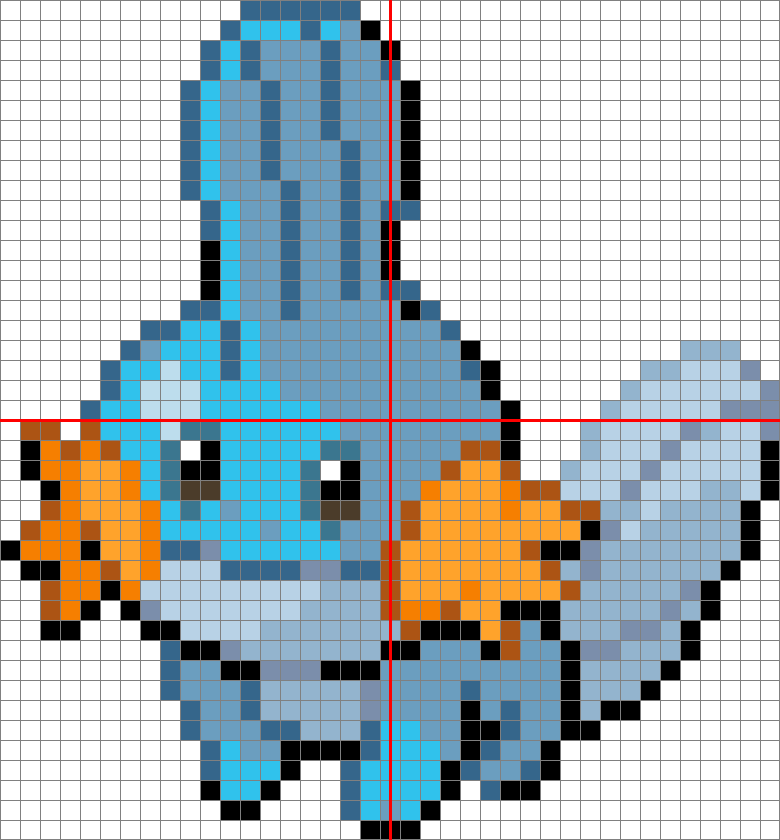
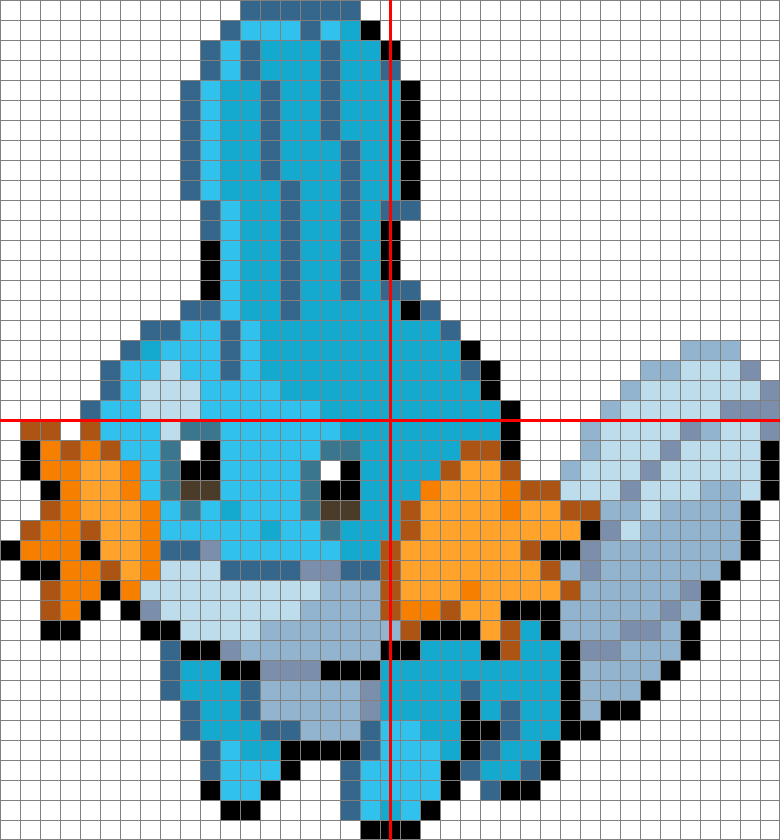
fixed colors & added side by side

diff --git a/utils.py b/utils.py
@@ -4,6 +4,7 @@ import polars as pl
 import pandas as pd
 from colormath.color_objects import sRGBColor, LabColor
 from colormath.color_conversions import convert_color
+from colorspacious import cspace_convert
 from collections import Counter
 import math
 
@@ -56,9 +57,16 @@ def rgb_to_lab(rgb):
     # return [lab.lab_l, lab.lab_a, lab.lab_b]
     # return convert_color(sRGBColor(rgb[0] / 255, rgb[1] / 255, rgb[2] / 255), LabColor)
 
-    # normalize to 0–1
-    srgb = sRGBColor(rgb[0] / 255, rgb[1] / 255, rgb[2] / 255)
-    lab = convert_color(srgb, LabColor)
+    # # normalize to 0–1
+    # srgb = sRGBColor(rgb[0] / 255, rgb[1] / 255, rgb[2] / 255)
+    # lab = convert_color(srgb, LabColor)
+
+    srgb = sRGBColor(rgb[0] / 255, rgb[1] / 255, rgb[2] / 255, is_upscaled=False)
+    lab = convert_color(
+        srgb,
+        LabColor,
+        target_illuminant="d65"
+    )
 
     # ensure pure Python floats
     lab.lab_l = float(lab.lab_l)
@@ -68,21 +76,21 @@ def rgb_to_lab(rgb):
 
 
 def closest_color(target, colors):
-    tgt = rgb_to_lab([target[0], target[1], target[2]])
+    # tgt = rgb_to_lab([target[0], target[1], target[2]])
 
     best_color = None
     best_distance = float("inf")
 
     for color in colors:
-        c = rgb_to_lab([color[0], color[1], color[2]])
-        d = gpt_delta_e_ciede2000(tgt, c)  # perceptual distance
+        # c = rgb_to_lab([color[0], color[1], color[2]])
+        d = cam02_ucs_distance(target, color)  # perceptual distance
 
         if d < best_distance:
             best_distance = d
             best_color = color
-            print(f"NEW BEST: {color} \t {d}")
-        else:
-            print("         ", color, "   \t", d)
+            # print(f"NEW BEST: {color} \t {d}")
+        # else:
+        #     print("         ", color, "   \t", d)
 
     return best_color
 
@@ -155,7 +163,11 @@ def gpt_delta_e_ciede2000(color1, color2):
         if abs(h1_prime - h2_prime) <= 180:
             h_bar_prime = (h1_prime + h2_prime) / 2
         else:
-            h_bar_prime = (h1_prime + h2_prime + 360) / 2
+            if (h1_prime + h2_prime) < 360:
+                h_bar_prime = (h1_prime + h2_prime + 360) / 2
+            else:
+                h_bar_prime = (h1_prime + h2_prime - 360) / 2
+
 
     # Step 8: Weighting functions
     S_L = 1 + (0.015 * (L_bar_prime - 50)**2) / math.sqrt(
@@ -188,6 +200,23 @@ def gpt_delta_e_ciede2000(color1, color2):
     )
 
     return delta_E
+
+
+def cam02_ucs_distance(rgb1, rgb2):
+    """
+    Perceptual distance using CAM02-UCS (J′a′b′).
+    rgb1, rgb2: [R, G, B] in 0–255
+    Returns: Euclidean distance in CAM02-UCS
+    """
+
+    # normalize to 0–1
+    rgb1 = np.array(rgb1) / 255.0
+    rgb2 = np.array(rgb2) / 255.0
+
+    cam1 = cspace_convert(rgb1, "sRGB1", "CAM02-UCS")
+    cam2 = cspace_convert(rgb2, "sRGB1", "CAM02-UCS")
+
+    return np.linalg.norm(cam1 - cam2)
 
 
 def compare_colors(img_colors, dmc_df):
@@ -273,6 +302,34 @@ def recolor_image(image_path, pandas_colors):
     result_img.save(output_path)
 
     return output_path
+
+
+def create_side_by_side(img1_path, img2_path):
+    """
+    Combines two images side-by-side using the Pillow library.
+    """
+    # Open the images
+    img1 = Image.open(img1_path).convert("RGBA")
+    img2 = Image.open(img2_path).convert("RGBA")
+
+    # Calculate the total width of the new image
+    total_width = img1.width + img2.width
+    total_height = img1.height # Both heights are now the same
+
+    # Create a new transparent image with the combined width and consistent height
+    # Mode "RGBA" is crucial for transparency, and color (0,0,0,0) makes it fully transparent
+    combined_img = Image.new('RGBA', (total_width, total_height), (0, 0, 0, 0))
+
+    # Paste the first image onto the new image at coordinates (0, 0)
+    combined_img.paste(img1, (0, 0), mask=img1) # Use mask to maintain transparency
+
+    # Paste the second image next to the first one, starting at the first image's width
+    combined_img.paste(img2, (img1.width, 0), mask=img2) # Use mask to maintain transparency
+
+    # Save the result
+    output_path = img1_path.replace("_crop.png", "_side_by_side.png")
+    combined_img.save(output_path)
+    print(f"Images combined and saved to {output_path}")
 
 
 def add_grid(image_path):

diff --git a/main.py b/main.py
@@ -3,15 +3,18 @@
 
 
 from utils import crop_transparent_border, get_RGBA_list, prep_dmc_color_lst, \
-    compare_colors, recolor_image, add_grid
+    compare_colors, recolor_image, create_side_by_side, add_grid
 
 
 # ------------------------- Main Code -------------------------
-# crop_path = crop_transparent_border(r"Sample_Images\mudkip.png")
-crop_path = crop_transparent_border(r"Sample_Images\TEST_MUDKIP_BLUE.png")
+crop_path = crop_transparent_border(r"Sample_Images\mudkip.png")
+# crop_path = crop_transparent_border(r"Sample_Images\TEST_MUDKIP_BLUE.png")
 img_color_dict = get_RGBA_list(crop_path)
 dmc_colors_df = prep_dmc_color_lst()
 color_chart = compare_colors(img_color_dict, dmc_colors_df)
 print(color_chart)
+
 recolor_path = recolor_image(crop_path, color_chart)
-# add_grid(recolor_path)
+create_side_by_side(crop_path, recolor_path)
+
+add_grid(recolor_path)
